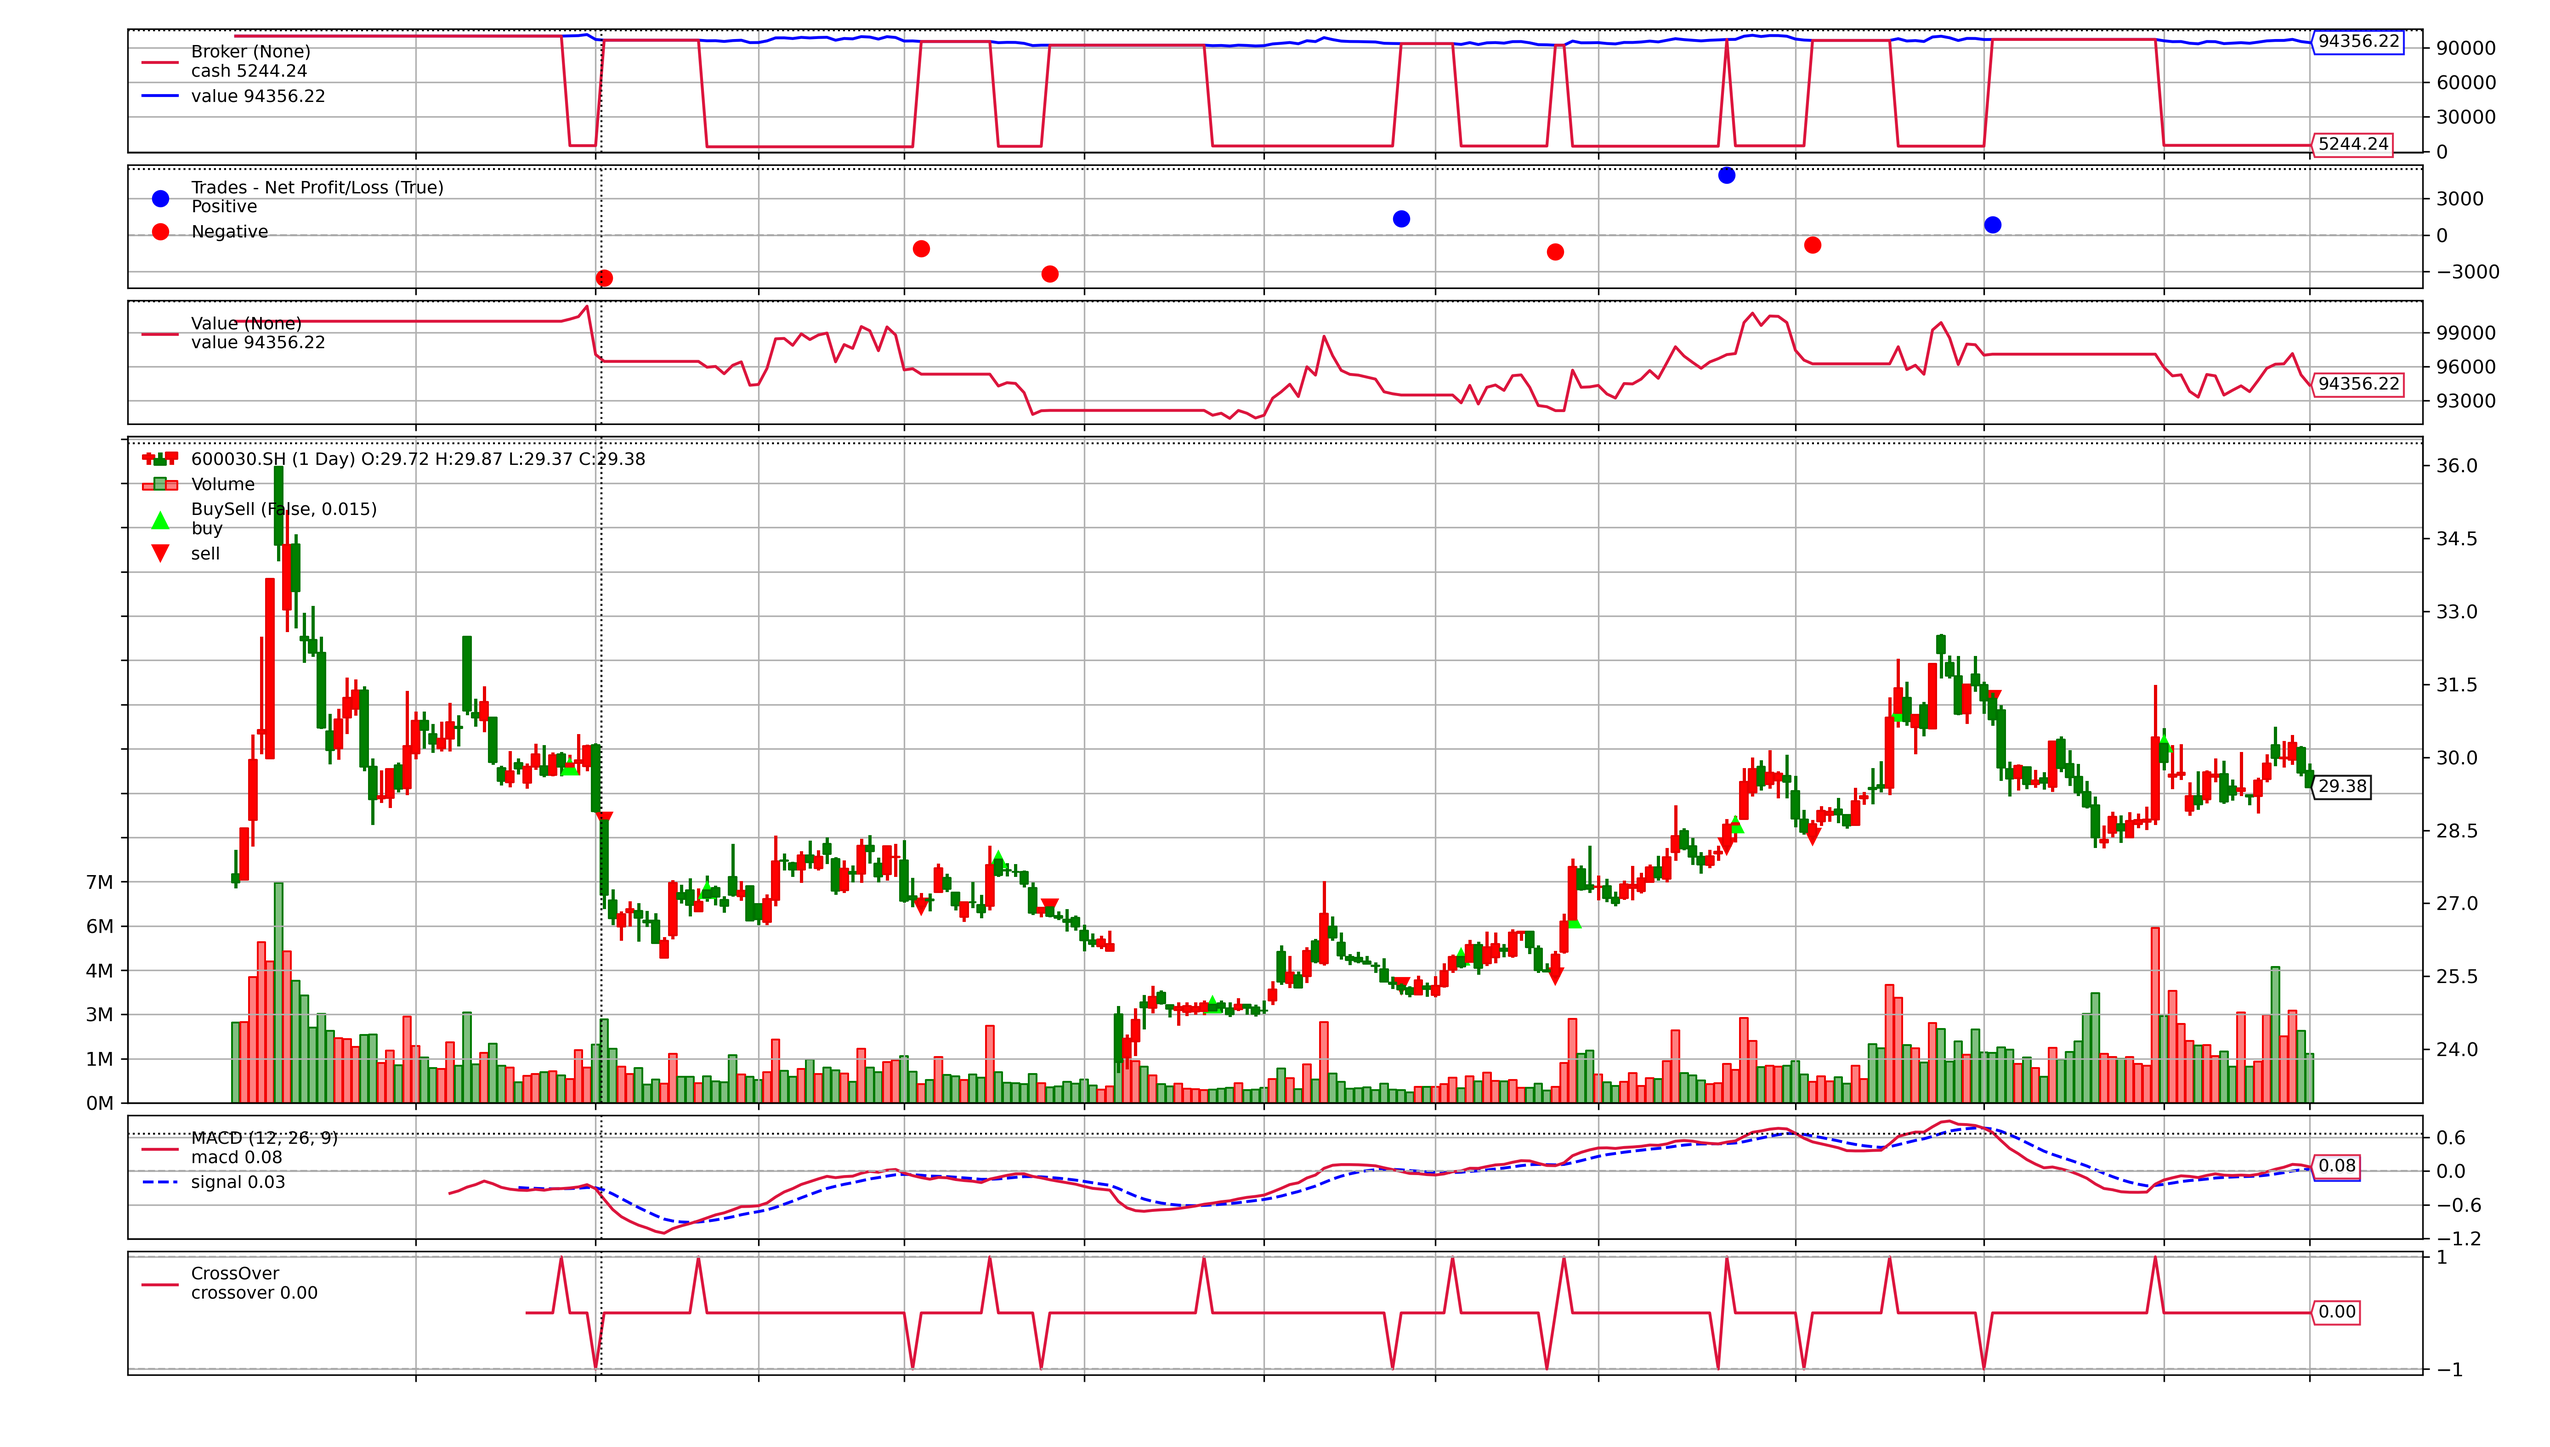
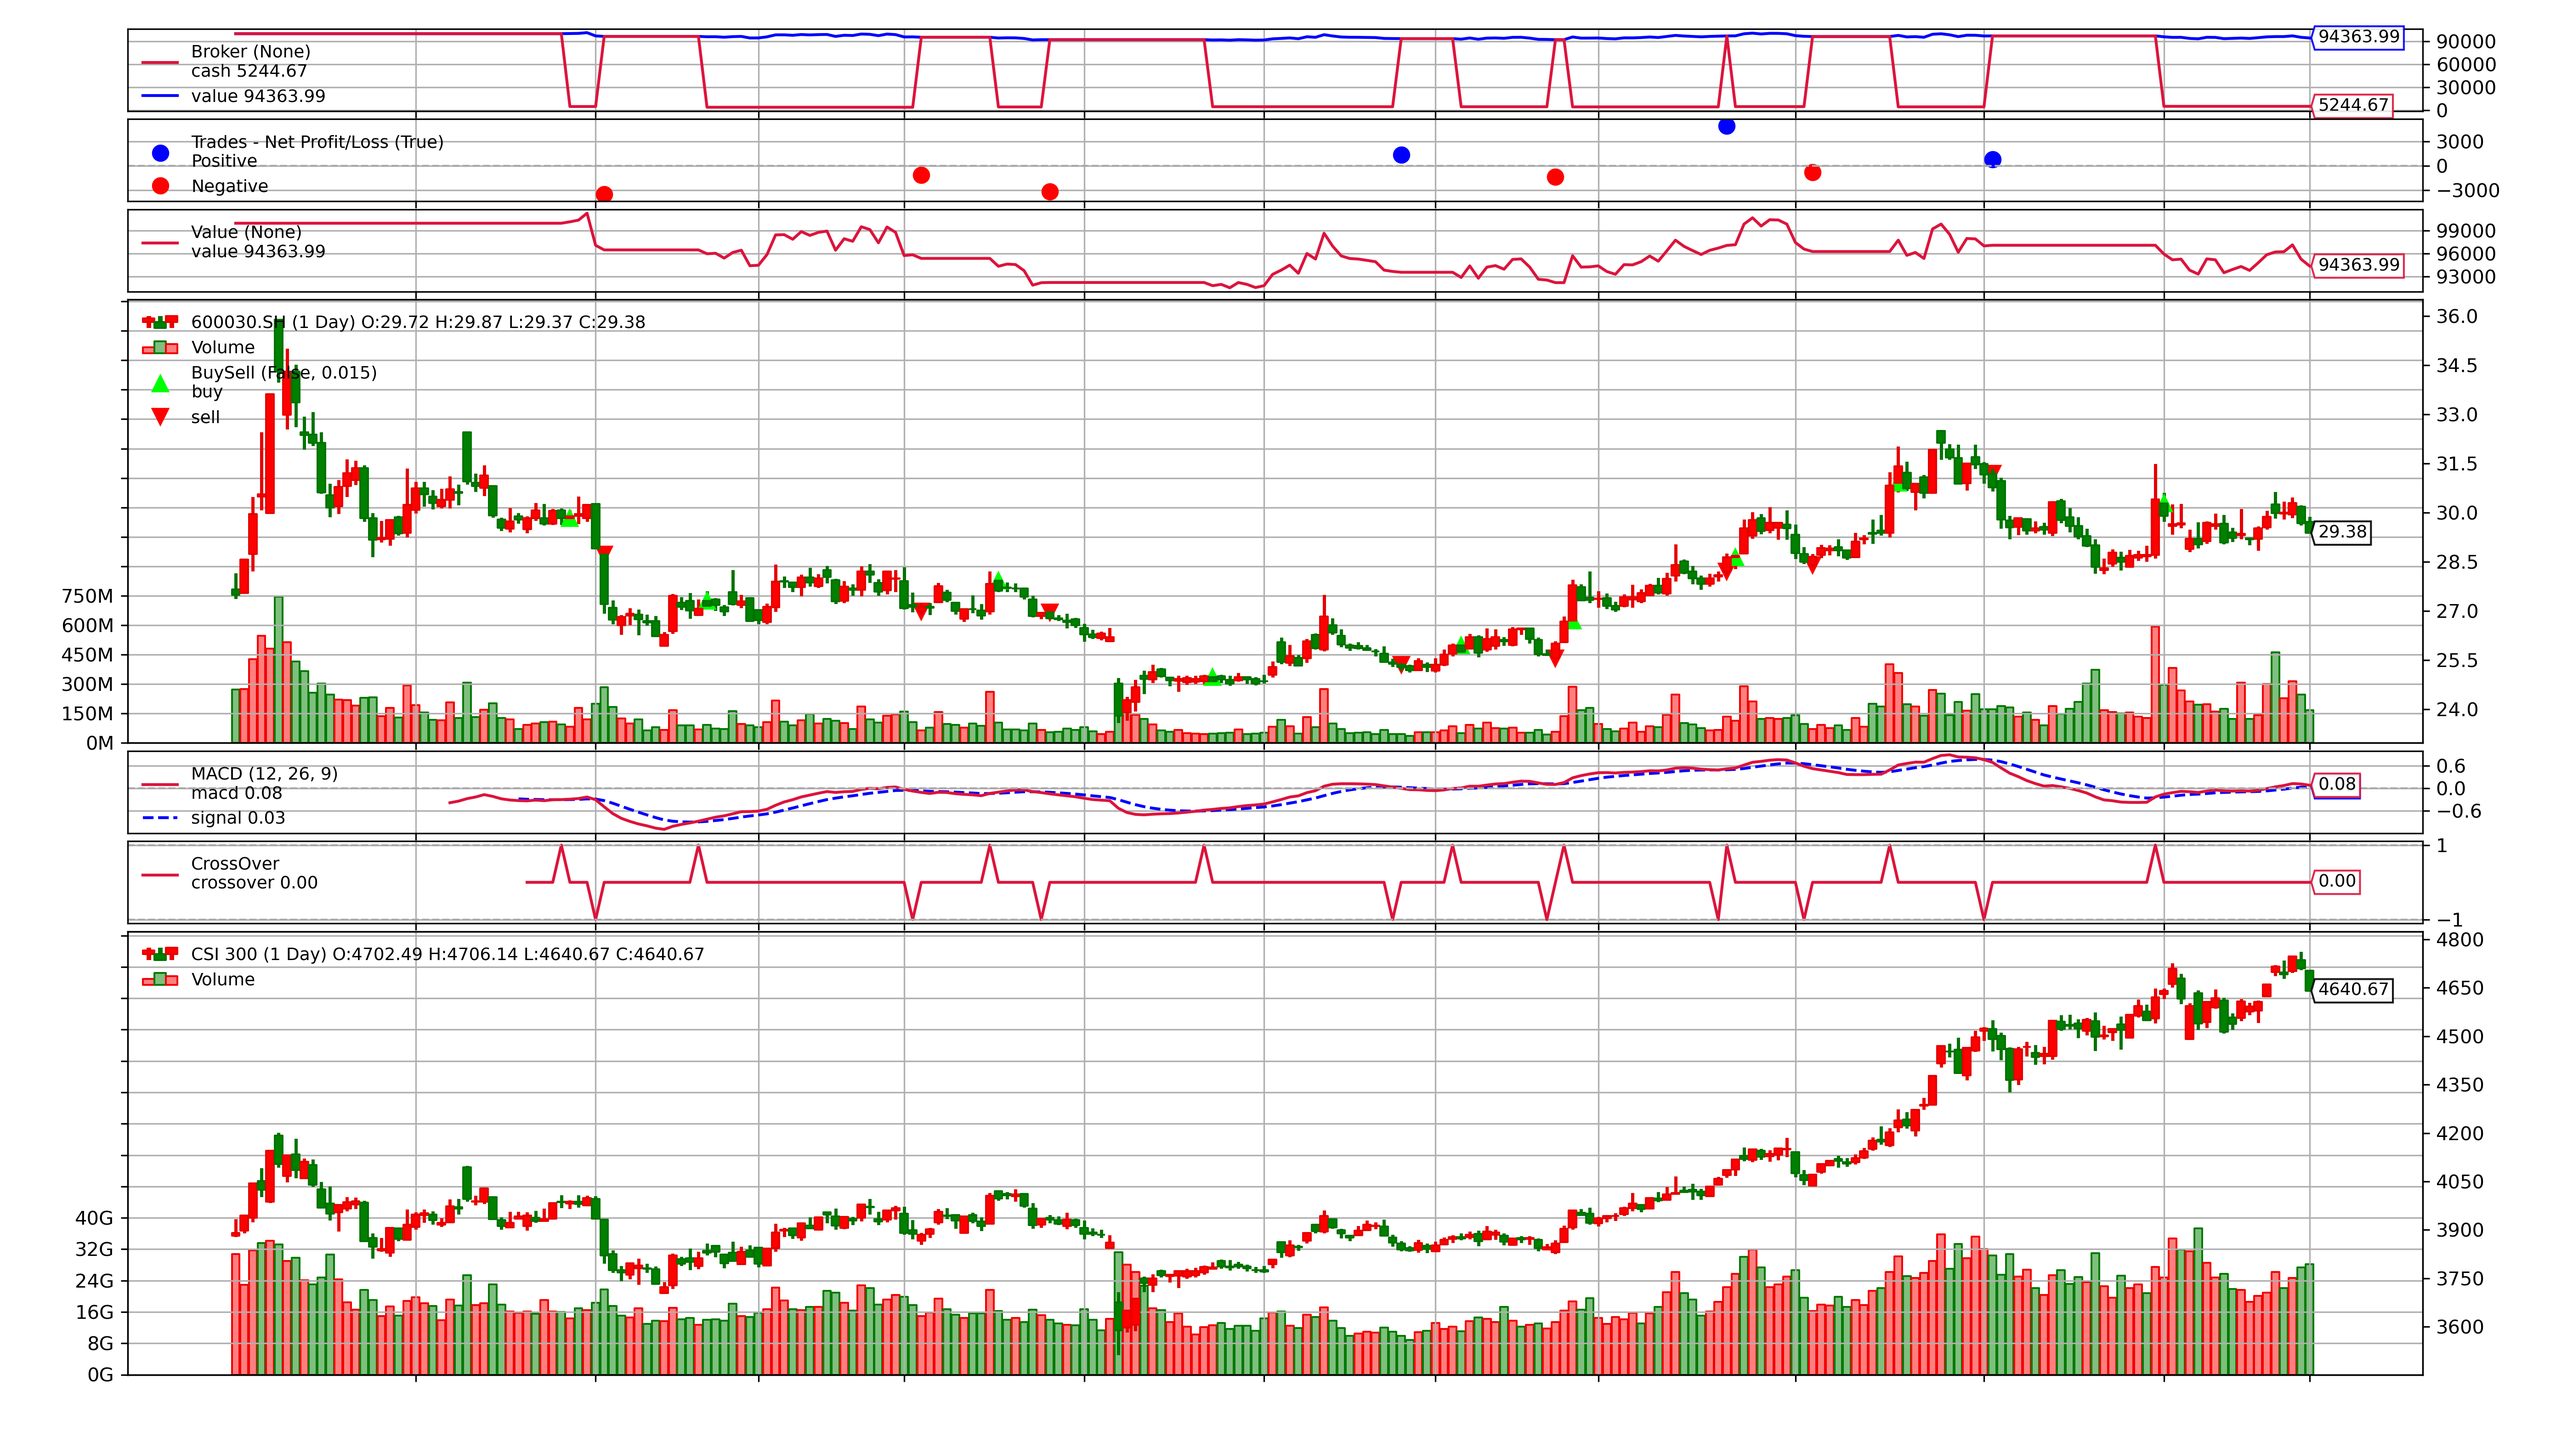
feat: Add baostock data source and Buy and Hold return metric

Changed region(s): [[0.0312, 0.0, 0.9975, 0.9644]]

diff --git a/data_fetcher.py b/data_fetcher.py
@@ -1,5 +1,6 @@
 import tushare as ts
 import akshare as ak
+import baostock as bs
 import pandas as pd
 from datetime import datetime
 from config import TUSHARE_TOKEN, DATA_SOURCE
@@ -74,6 +75,52 @@ def _fetch_from_akshare(stock_code, start_date, end_date):
     df = df.sort_index()
     return df
 
+def _fetch_from_baostock(stock_code, start_date, end_date):
+    """Fetch data from Baostock."""
+    lg = bs.login()
+    if lg.error_code != '0':
+        raise ConnectionError(f"Baostock login failed: {lg.error_msg}")
+
+    # Convert stock code format (e.g., 600030.SH -> sh.600030)
+    parts = stock_code.split('.')
+    bs_stock_code = f"{parts[1].lower()}.{parts[0]}"
+    
+    # Format dates
+    start_date_bs = datetime.strptime(start_date, '%Y%m%d').strftime('%Y-%m-%d')
+    end_date_bs = datetime.strptime(end_date, '%Y%m%d').strftime('%Y-%m-%d')
+
+    rs = bs.query_history_k_data_plus(
+        bs_stock_code,
+        "date,open,high,low,close,volume",
+        start_date=start_date_bs,
+        end_date=end_date_bs,
+        frequency="d",
+        adjustflag="2"  # qfq: 前复权
+    )
+    
+    if rs.error_code != '0':
+        bs.logout()
+        raise ValueError(f"Failed to fetch data from Baostock for code {bs_stock_code}: {rs.error_msg}")
+
+    data_list = []
+    while (rs.error_code == '0') & rs.next():
+        data_list.append(rs.get_row_data())
+    
+    df = pd.DataFrame(data_list, columns=rs.fields)
+    bs.logout()
+
+    if df.empty:
+        raise ValueError(f"No data returned from Baostock for code {bs_stock_code}.")
+
+    # Convert data types
+    for col in ['open', 'high', 'low', 'close', 'volume']:
+        df[col] = pd.to_numeric(df[col], errors='coerce')
+    
+    df.index = pd.to_datetime(df.date)
+    df = df.sort_index()
+    return df
+
+
 def fetch_data(stock_code, start_date, end_date):
     """
     Fetch stock data from the selected data source in config.
@@ -82,8 +129,10 @@ def fetch_data(stock_code, start_date, end_date):
         df = _fetch_from_tushare(stock_code, start_date, end_date)
     elif DATA_SOURCE == 'akshare':
         df = _fetch_from_akshare(stock_code, start_date, end_date)
+    elif DATA_SOURCE == 'baostock':
+        df = _fetch_from_baostock(stock_code, start_date, end_date)
     else:
-        raise ValueError(f"Unsupported data source: {DATA_SOURCE}. Please choose 'tushare' or 'akshare' in config.py.")
+        raise ValueError(f"Unsupported data source: {DATA_SOURCE}. Please choose 'tushare', 'akshare', or 'baostock' in config.py.")
 
     # Prepare data for backtrader
     df['openinterest'] = 0

diff --git a/main.py b/main.py
@@ -4,7 +4,7 @@ from strategies.macd_strategy import MACDStrategy
 import config
 import datetime
 
-def generate_report(cerebro, strat, results, benchmark_return=None):
+def generate_report(cerebro, strat, results, benchmark_return=None, buy_and_hold_return=None):
     """
     Generates a text report from the backtest results.
     """
@@ -43,7 +43,9 @@ def generate_report(cerebro, strat, results, benchmark_return=None):
 
     report_lines.append("--- Portfolio Performance ---")
     total_return = returns.get('rtot', 0)
-    report_lines.append(f"Total Return:            {total_return * 100:.2f}%")
+    report_lines.append(f"Strategy Total Return:   {total_return * 100:.2f}%")
+    if buy_and_hold_return is not None:
+        report_lines.append(f"Buy and Hold Return:     {buy_and_hold_return * 100:.2f}%")
     if benchmark_return is not None:
         report_lines.append(f"Benchmark (CSI 300) Return: {benchmark_return * 100:.2f}%")
     report_lines.append("\n")
@@ -101,6 +103,11 @@ if __name__ == '__main__':
     feed = bt.feeds.PandasData(dataname=data, name=config.STOCK_CODE)
     cerebro.adddata(feed)
 
+    # Calculate Buy and Hold return
+    buy_and_hold_return = None
+    if not data.empty:
+        buy_and_hold_return = (data['close'].iloc[-1] - data['close'].iloc[0]) / data['close'].iloc[0]
+
     # Fetch benchmark data (optional)
     benchmark_return = None
     if config.ENABLE_BENCHMARK:
@@ -131,7 +138,7 @@ if __name__ == '__main__':
     strat = results[0]
 
     # Generate and print the report
-    generate_report(cerebro, strat, results, benchmark_return)
+    generate_report(cerebro, strat, results, benchmark_return, buy_and_hold_return)
 
     # Plot the result and save to file
     print("Saving plot to backtest_plot.png...")

diff --git a/config.py b/config.py
@@ -1,8 +1,8 @@
 # tushare_token.py
 TUSHARE_TOKEN = '36c643f995ba9828b822f1872dda95372f89787eb912dad38c3b0375'  # Replace with your Tushare token
 
-# Data source: 'tushare' or 'akshare'
-DATA_SOURCE = 'akshare'
+# Data source: 'tushare' or 'akshare' or 'baostock'
+DATA_SOURCE = 'baostock'
 
 # Backtest settings
 ENABLE_BENCHMARK = True # Set to True to enable benchmark comparison
